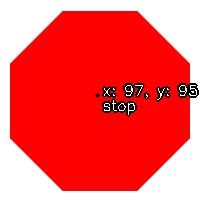
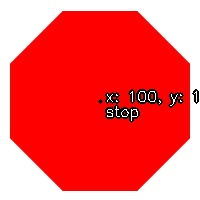
stop_test

Changed region(s): [[0.48, 0.39, 1.0, 0.63]]

diff --git a/homework/hw2/hw2.py b/homework/hw2/hw2.py
@@ -154,6 +154,10 @@ def identify_traffic_light(img: np.ndarray) -> tuple:
     return 0, 0, 'None'
 
 
+import numpy as np
+import cv2
+
+
 def identify_stop_sign(img: np.ndarray) -> tuple:
     """
     This function takes in the image as a numpy array and returns a tuple of the sign location and name.
@@ -168,9 +172,9 @@ def identify_stop_sign(img: np.ndarray) -> tuple:
     hsv = cv2.cvtColor(img_cp, cv2.COLOR_BGR2HSV)
 
     # Define red color range
-    lower_red1 = np.array([0, 120, 70])
+    lower_red1 = np.array([0, 150, 70])
     upper_red1 = np.array([10, 255, 255])
-    lower_red2 = np.array([170, 120, 70])
+    lower_red2 = np.array([170, 150, 70])
     upper_red2 = np.array([180, 255, 255])
 
     # Create a mask for the red color
@@ -178,27 +182,30 @@ def identify_stop_sign(img: np.ndarray) -> tuple:
     mask2 = cv2.inRange(hsv, lower_red2, upper_red2)
     mask = cv2.bitwise_or(mask1, mask2)
 
-    # Apply the mask to the image
-    masked_img = cv2.bitwise_and(img_cp, img_cp, mask=mask)
+    # Apply morphological operations to remove noise
+    kernel = cv2.getStructuringElement(cv2.MORPH_ELLIPSE, (5, 5))
+    mask = cv2.morphologyEx(mask, cv2.MORPH_CLOSE, kernel)
+    mask = cv2.morphologyEx(mask, cv2.MORPH_OPEN, kernel)
 
-    # Detect circles
-    circles = sign_circle(masked_img)
+    # Find contours in the mask
+    contours, _ = cv2.findContours(mask, cv2.RETR_EXTERNAL, cv2.CHAIN_APPROX_SIMPLE)
 
-    # show_image("", masked_img)
+    for contour in contours:
+        # Approximate the contour to a polygon
+        epsilon = 0.02 * cv2.arcLength(contour, True)
+        approx = cv2.approxPolyDP(contour, epsilon, True)
 
-    if circles is not None:
-        # Convert circles to integer values
-        circles = np.round(circles[0, :]).astype("int")
+        # Check if the shape is an octagon (8 sides)
+        if len(approx) == 8:
+            # Get the bounding box to calculate center
+            x, y, w, h = cv2.boundingRect(contour)
+            center_x = x + w // 2
+            center_y = y + h // 2
 
-        # Get the (x, y) coordinates and radius of the first detected circle
-        for (x, y, r) in circles:
-            # Exclude stop lights
-            if 20 <= r <= 50:
-                continue
-            # Check for sign characteristics, e.g., circle size range
-            elif 40 <= r <= 100:
-                # Return the center coordinates of the detected circle
-                return x, y, 'stop'
+            # Check area size
+            area = cv2.contourArea(contour)
+            if area > 500:  # Example threshold
+                return center_x, center_y, 'stop'
 
     return 0, 0, 'None'
 
@@ -301,9 +308,12 @@ def identify_warning(img: np.ndarray) -> tuple:
     # Convert the image to HSV
     hsv = cv2.cvtColor(img_cp, cv2.COLOR_BGR2HSV)
 
+    # # Define orange color range
+    # lower_orange = np.array([5, 100, 100])
+    # upper_orange = np.array([20, 255, 255])
     # Define yellow color range
     lower_yellow = np.array([20, 100, 100])
-    upper_yellow = np.array([30, 255, 255])
+    upper_yellow = np.array([25, 255, 255])
 
     # Define yellow color range
     mask = cv2.inRange(hsv, lower_yellow, upper_yellow)
